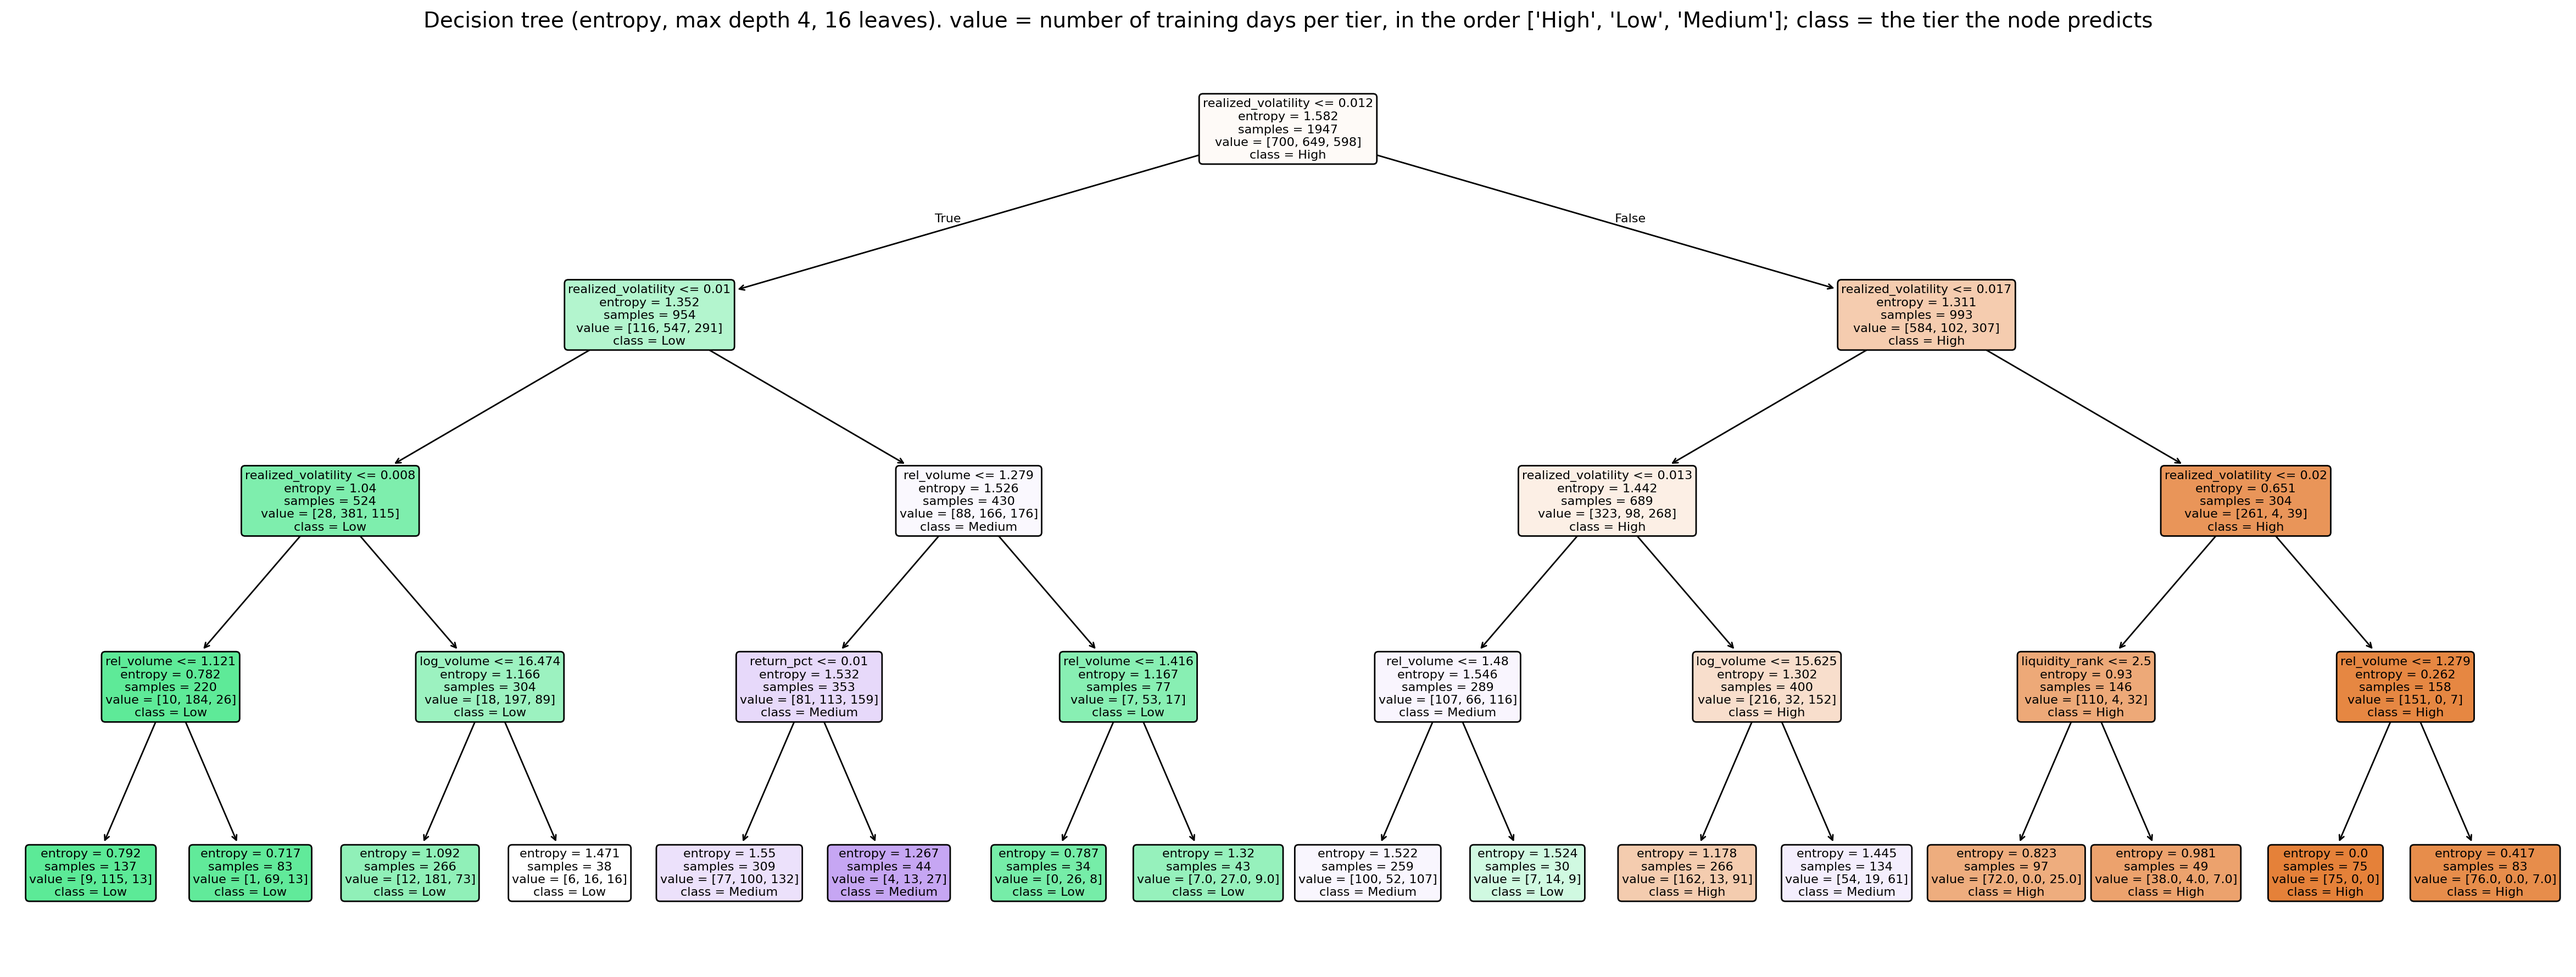
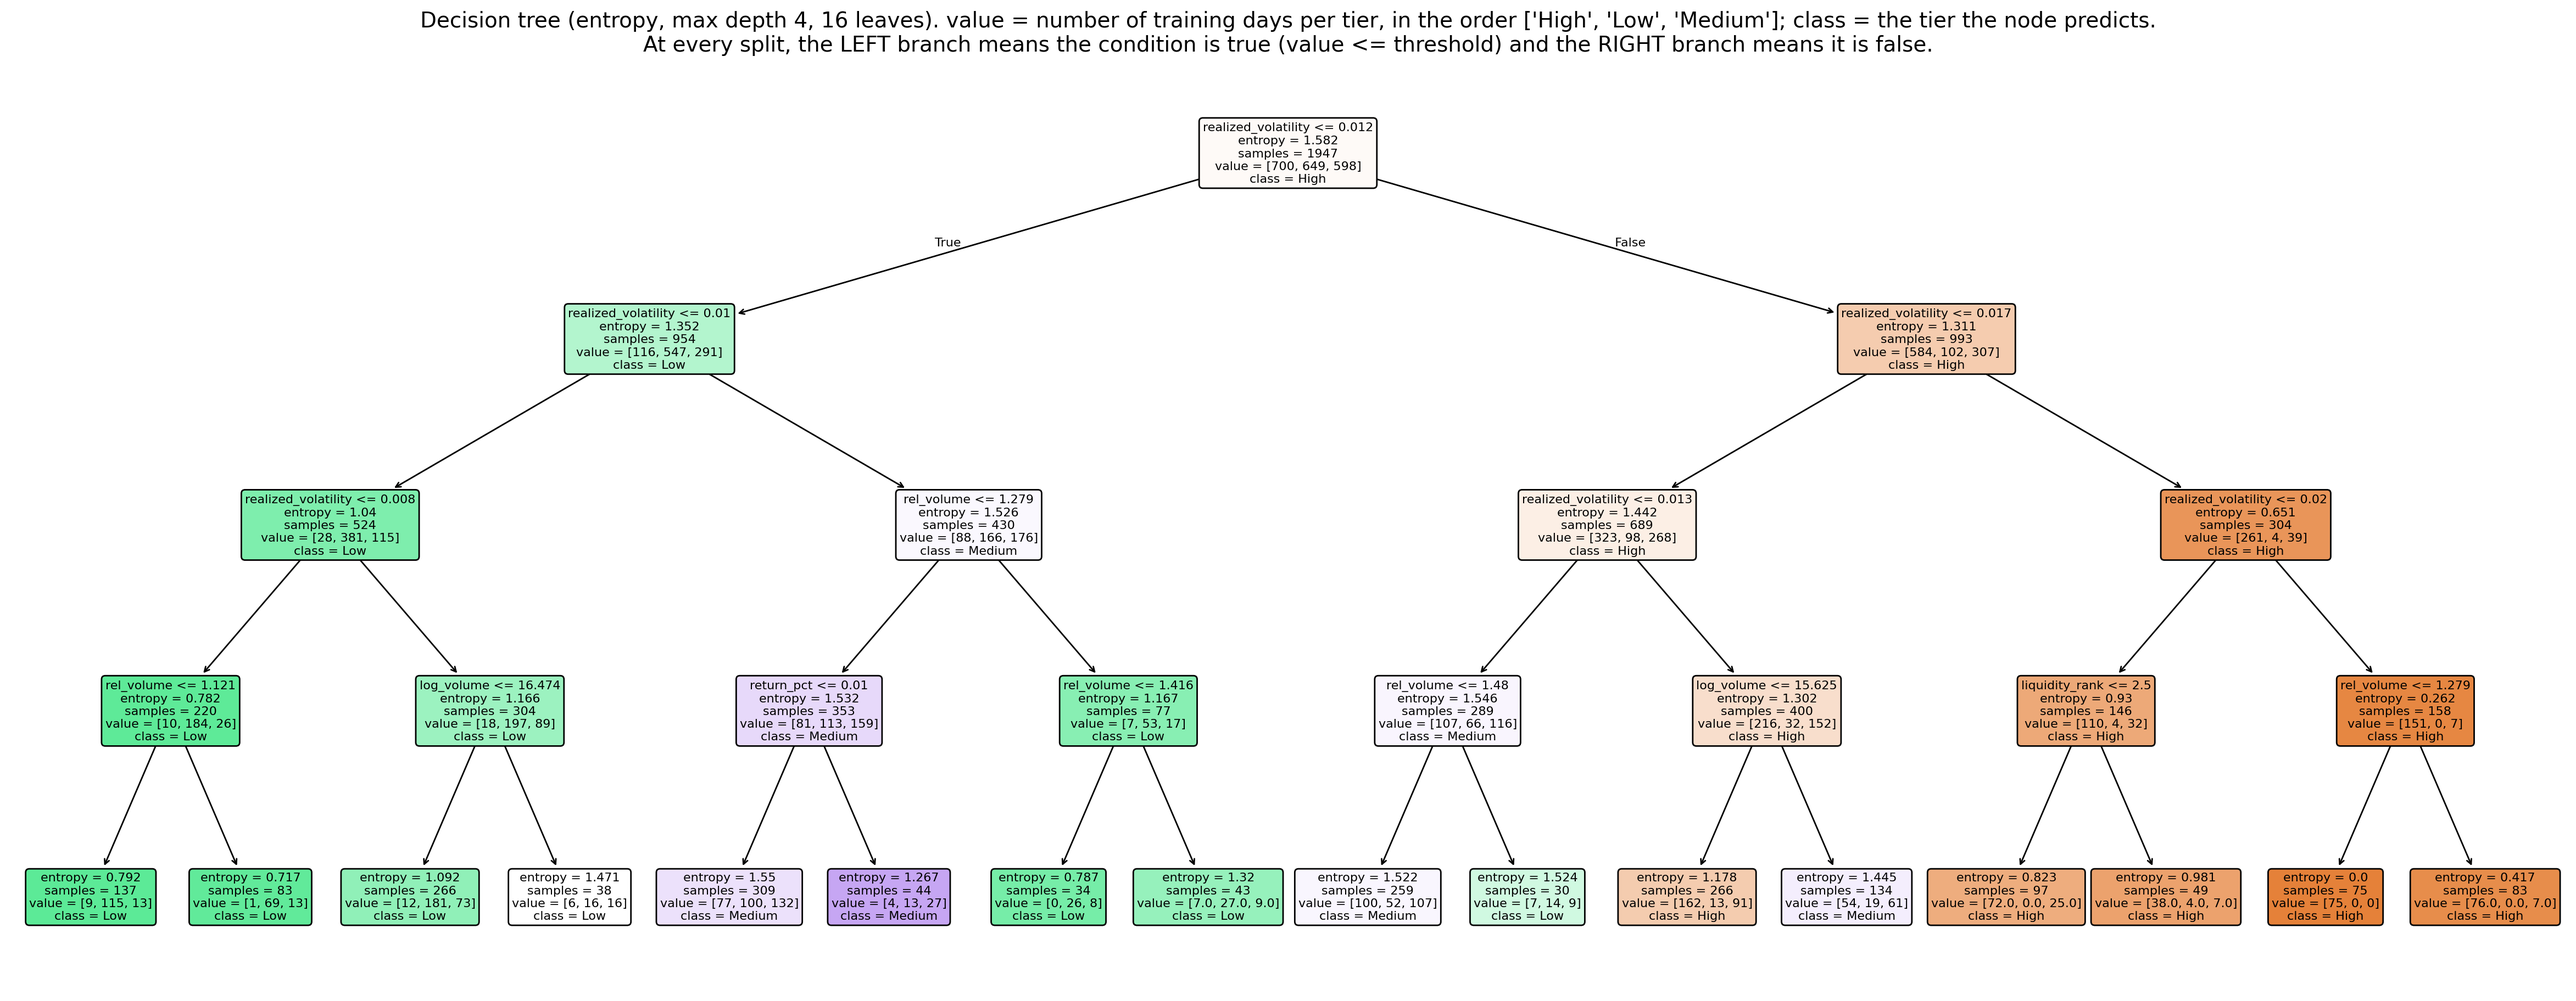
Fixing Title on the Decision Tree

diff --git a/src/06_classification.py b/src/06_classification.py
@@ -163,7 +163,9 @@ def main():
     ax.set_title(f"Decision tree ({metrics['tree_settings']['criterion']}, max depth "
                  f"{metrics['tree_settings']['max_depth']}, {tree.get_n_leaves()} leaves). "
                  f"value = number of training days per tier, in the order {list(tree.classes_)}; "
-                 f"class = the tier the node predicts", fontsize=14)
+                 f"class = the tier the node predicts.\nAt every split, the LEFT branch means the "
+                 f"condition is true (value <= threshold) and the RIGHT branch means it is false.",
+                 fontsize=14)
     fig.savefig(FIGURES / "fig3_decision_tree.png", dpi=200, bbox_inches="tight")
 
     results.to_csv(PROCESSED / "classification_results.csv", index=False)
